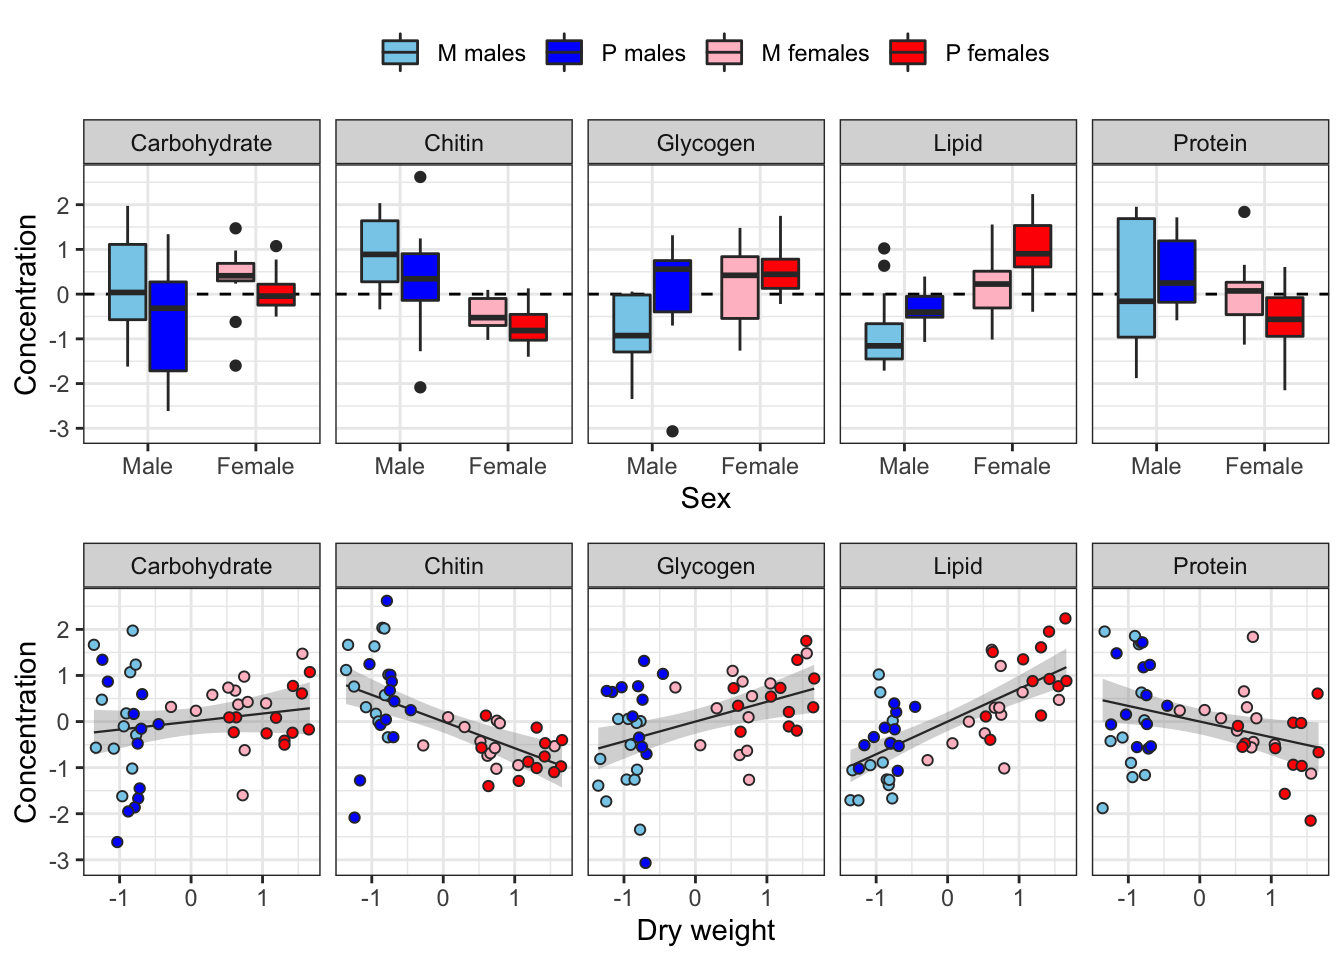
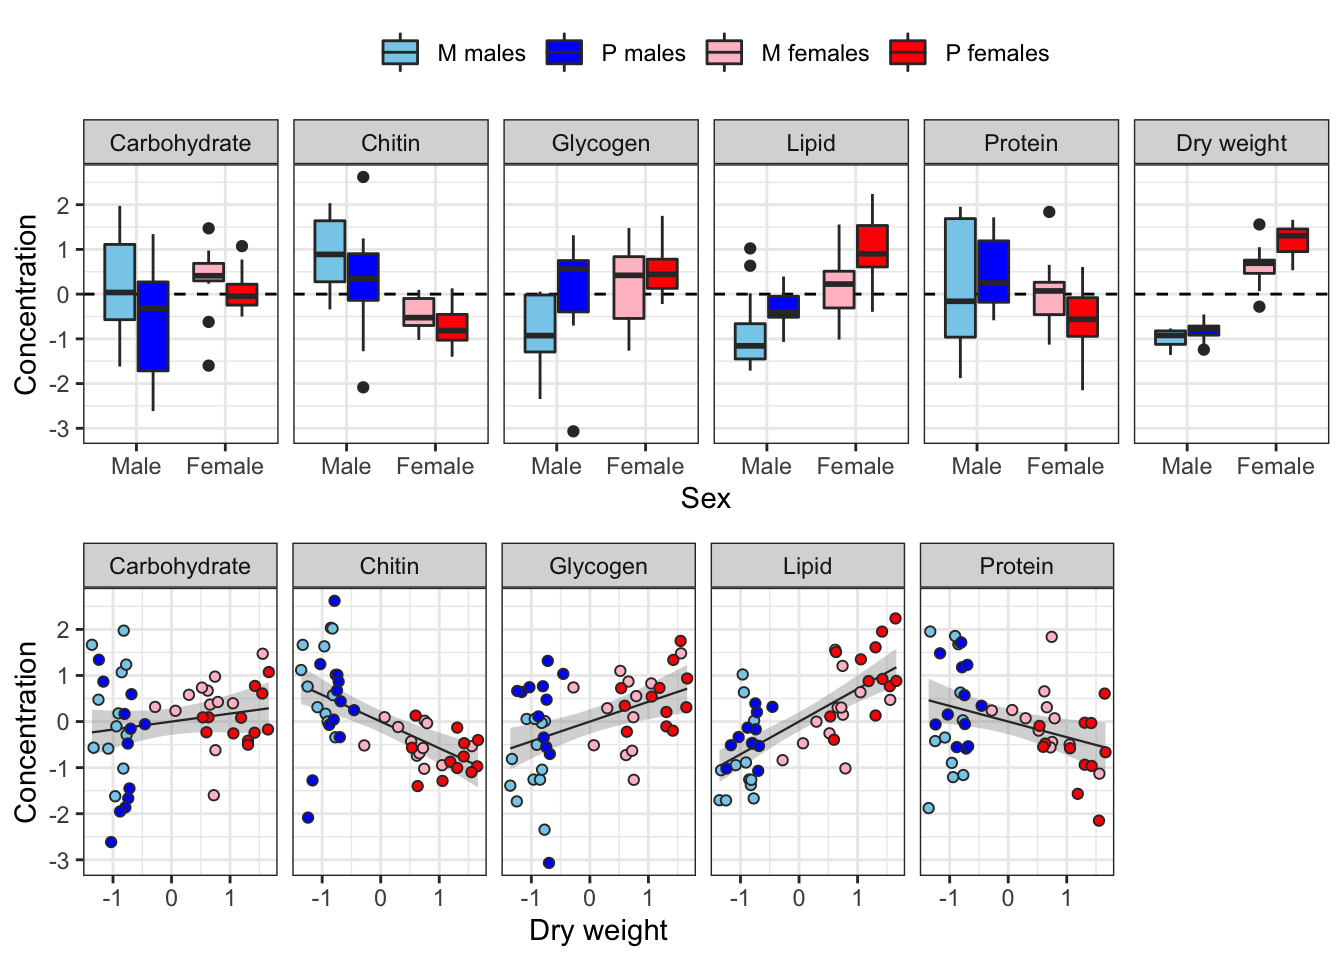
Build site.

diff --git a/docs/metabolites.html b/docs/metabolites.html
@@ -446,7 +446,7 @@ div.tocify {
 <div class="tab-content">
 <div id="summary" class="tab-pane fade in active">
 <p>
-<strong>Last updated:</strong> 2020-12-10
+<strong>Last updated:</strong> 2020-12-11
 </p>
 <p>
 <strong>Checks:</strong> <span class="glyphicon glyphicon-ok text-success" aria-hidden="true"></span> 7 <span class="glyphicon glyphicon-exclamation-sign text-danger" aria-hidden="true"></span> 0
@@ -537,16 +537,16 @@ This reproducible <a href="http://rmarkdown.rstudio.com">R Markdown</a> analysis
 <div class="panel panel-default">
 <div class="panel-heading">
 <p class="panel-title">
-<a data-toggle="collapse" data-parent="#workflowr-checks" href="#strongRepositoryversionstrongahrefhttpsgithubcomlukeholmanexpevolrespirationtree184b0a4ac7ac27696808674903e4f43936dd3334targetblank184b0a4a"> <span class="glyphicon glyphicon-ok text-success" aria-hidden="true"></span> <strong>Repository version:</strong> <a href="https://github.com/lukeholman/exp_evol_respiration/tree/184b0a4ac7ac27696808674903e4f43936dd3334" target="_blank">184b0a4</a> </a>
+<a data-toggle="collapse" data-parent="#workflowr-checks" href="#strongRepositoryversionstrongahrefhttpsgithubcomlukeholmanexpevolrespirationtree9d65fc733b79a98d2e12c6e21200fb959bd79377targetblank9d65fc7a"> <span class="glyphicon glyphicon-ok text-success" aria-hidden="true"></span> <strong>Repository version:</strong> <a href="https://github.com/lukeholman/exp_evol_respiration/tree/9d65fc733b79a98d2e12c6e21200fb959bd79377" target="_blank">9d65fc7</a> </a>
 </p>
 </div>
[2 lines of base64/hex data omitted]
 <div class="panel-body">
 <p>
 Great! You are using Git for version control. Tracking code development and connecting the code version to the results is critical for reproducibility.
 </p>
 <p>
-The results in this page were generated with repository version <a href="https://github.com/lukeholman/exp_evol_respiration/tree/184b0a4ac7ac27696808674903e4f43936dd3334" target="_blank">184b0a4</a>. See the <em>Past versions</em> tab to see a history of the changes made to the R Markdown and HTML files.
+The results in this page were generated with repository version <a href="https://github.com/lukeholman/exp_evol_respiration/tree/9d65fc733b79a98d2e12c6e21200fb959bd79377" target="_blank">9d65fc7</a>. See the <em>Past versions</em> tab to see a history of the changes made to the R Markdown and HTML files.
 </p>
 <p>
 Note that you need to be careful to ensure that all relevant files for the analysis have been committed to Git prior to generating the results (you can use <code>wflow_publish</code> or <code>wflow_git_commit</code>). workflowr only checks the R Markdown file, but you know if there are other scripts or data files that it depends on. Below is the status of the Git repository when the results were generated:
@@ -597,6 +597,40 @@ Message
 </tr>
 </thead>
 <tbody>
+<tr>
+<td>
+Rmd
+</td>
+<td>
+<a href="https://github.com/lukeholman/exp_evol_respiration/blob/9d65fc733b79a98d2e12c6e21200fb959bd79377/analysis/metabolites.Rmd" target="_blank">9d65fc7</a>
+</td>
+<td>
+lukeholman
+</td>
+<td>
+2020-12-11
+</td>
+<td>
+Tweaks
+</td>
+</tr>
+<tr>
+<td>
+html
+</td>
+<td>
+<a href="https://rawcdn.githack.com/lukeholman/exp_evol_respiration/2911fb9e423d20144248d02fab3414bc7ff29d46/docs/metabolites.html" target="_blank">2911fb9</a>
+</td>
+<td>
+lukeholman
+</td>
+<td>
+2020-12-10
+</td>
+<td>
+Build site.
+</td>
+</tr>
 <tr>
 <td>
 Rmd
@@ -1087,7 +1121,7 @@ scaled_metabolites %&gt;%
 <div id="simple-plots" class="section level3">
 <h3>Simple plots</h3>
 <p>The following plot shows how each metabolite varies between sexes and treatments, and how the consecration of each metabolite co-varies with dry weight across individuals.</p>
-<pre class="r"><code>levels &lt;- c(&quot;Carbohydrate&quot;, &quot;Chitin&quot;, &quot;Glycogen&quot;, &quot;Lipid&quot;, &quot;Protein&quot;, &quot;Dryweight&quot;)
+<pre class="r"><code>levels &lt;- c(&quot;Carbohydrate&quot;, &quot;Chitin&quot;, &quot;Glycogen&quot;, &quot;Lipid&quot;, &quot;Protein&quot;, &quot;Dry weight&quot;)
 
 cols &lt;- c(&quot;M females&quot; = &quot;pink&quot;, 
           &quot;P females&quot; = &quot;red&quot;, 
@@ -1097,8 +1131,9 @@ cols &lt;- c(&quot;M females&quot; = &quot;pink&quot;,
 grid.arrange(
   scaled_metabolites %&gt;% 
     rename_all(~ str_remove_all(.x, &quot;_conc&quot;)) %&gt;%
+    rename(`Dry weight` = Dry_weight) %&gt;%
     mutate(sex = factor(sex, c(&quot;Male&quot;, &quot;Female&quot;))) %&gt;%
-    reshape2::melt(id.vars = c(&#39;sex&#39;, &#39;treatment&#39;, &#39;sextreat&#39;, &#39;line&#39;, &#39;Dry_weight&#39;)) %&gt;% 
+    reshape2::melt(id.vars = c(&#39;sex&#39;, &#39;treatment&#39;, &#39;sextreat&#39;, &#39;line&#39;)) %&gt;% 
     mutate(variable = factor(variable, levels)) %&gt;%
     ggplot(aes(x = sex, y = value,  fill  = sextreat)) +
     geom_hline(yintercept = 0, linetype = 2) + 
@@ -1109,19 +1144,26 @@ grid.arrange(
     theme(legend.position = &#39;top&#39;) + 
     scale_fill_manual(values = cols, name = &quot;&quot;),
   
-  scaled_metabolites %&gt;% 
-    rename_all(~ str_remove_all(.x, &quot;_conc&quot;)) %&gt;%
-    reshape2::melt(id.vars = c(&#39;sex&#39;, &#39;treatment&#39;, &#39;sextreat&#39;, &#39;line&#39;, &#39;Dry_weight&#39;)) %&gt;% 
-    mutate(variable = factor(variable, levels)) %&gt;%
-    ggplot(aes(x = Dry_weight, y = value, colour = sextreat, fill = sextreat)) +
-    geom_smooth(method = &#39;lm&#39;, se = TRUE, aes(colour = NULL, fill = NULL), colour = &quot;grey20&quot;, size = .4) +
-    geom_point(pch = 21, colour = &quot;grey20&quot;) +
-    facet_grid( ~ variable) +
-    theme_bw() +
-    xlab(&quot;Dry weight&quot;) + ylab(&quot;Concentration&quot;) +
-    theme(legend.position = &#39;none&#39;) + 
-    scale_colour_manual(values = cols, name = &quot;&quot;) + 
-    scale_fill_manual(values = cols, name = &quot;&quot;),
+  arrangeGrob(
+    scaled_metabolites %&gt;% 
+      rename_all(~ str_remove_all(.x, &quot;_conc&quot;)) %&gt;%
+      reshape2::melt(id.vars = c(&#39;sex&#39;, &#39;treatment&#39;, &#39;sextreat&#39;, &#39;line&#39;, &#39;Dry_weight&#39;)) %&gt;% 
+      mutate(variable = factor(variable, levels)) %&gt;%
+      ggplot(aes(x = Dry_weight, y = value, colour = sextreat, fill = sextreat)) +
+      geom_smooth(method = &#39;lm&#39;, se = TRUE, aes(colour = NULL, fill = NULL), colour = &quot;grey20&quot;, size = .4) +
+      geom_point(pch = 21, colour = &quot;grey20&quot;) +
+      facet_grid( ~ variable) +
+      theme_bw() +
+      xlab(&quot;Dry weight&quot;) + ylab(&quot;Concentration&quot;) +
+      theme(legend.position = &#39;none&#39;) + 
+      scale_colour_manual(values = cols, name = &quot;&quot;) + 
+      scale_fill_manual(values = cols, name = &quot;&quot;),
+    scaled_metabolites %&gt;% 
+      rename_all(~ str_remove_all(.x, &quot;_conc&quot;)) %&gt;%
+      reshape2::melt(id.vars = c(&#39;sex&#39;, &#39;treatment&#39;, &#39;sextreat&#39;, &#39;line&#39;, &#39;Dry_weight&#39;)) %&gt;% 
+      mutate(variable = factor(variable, levels)) %&gt;%
+      ggplot(aes(x = Dry_weight, y = value, colour = sextreat, fill = sextreat)) +
+      theme_void() + ylab(NULL), nrow = 1, widths = c(0.84, 0.16)),
   heights = c(0.55, 0.45)
 )</code></pre>
 <p><img src="figure/metabolites.Rmd/unnamed-chunk-5-1.png" width="672" style="display: block; margin: auto;" /></p>
@@ -1399,7 +1441,7 @@ node [shape = rectangle, style = filled, fillcolor = Linen]
 <p>Here we fit a model of the five metabolites, which includes dry body weight as a mediator variable. That is, our model estimates the effect of treatment, sex and line (and all the 2- and 3-way interactions) on dry weight, and then estimates the effect of those some predictors (plus dry weight) on the five metabolites. The model assumes that although the different sexes, treatment groups, and lines may differ in their dry weight, the relationship between dry weight and the metabolites does not vary by sex/treatment/line. This assumption was made to constrain the number of parameters in the model, and to reflect out prior beliefs about allometric scaling of metabolites.</p>
 <div id="define-priors" class="section level3">
 <h3>Define Priors</h3>
-<p>We use set <code>Normal</code> priors on all fixed effect parameters, mean = 0, sd = 1, which ‘regularises’ the estimates towards zero – this is conservative (because it makes large posterior effect sizes more improbable), and it also helps the model to converge. Similarly, we set a somewhat conservative half-cauchy prior (mean 0, scale 0.01) on the random effects for <code>line</code> (i.e. we consider large differences between lines – in terms of means and treatment effects – to be possible but improbable). We leave all other priors at the defaults used by <code>brms</code>.</p>
+<p>We use set fairly tight Normal priors on all fixed effect parameters, which ‘regularises’ the estimates towards zero – this is conservative (because it ensures that a stronger signal in the data is needed to produce a given posterior effect size estimate), and it also helps the model to converge. Similarly, we set a somewhat conservative half-cauchy prior (mean 0, scale 0.01) on the random effects for <code>line</code> (i.e. we consider large differences between lines – in terms of means and treatment effects – to be possible but improbable). We leave all other priors at the defaults used by <code>brms</code>. Note that the Normal priors are slightly wider in the model of dry weight, because we expect larger effect sizes of sex and treatment on dry weight than on the metabolite composition.</p>
 <pre class="r"><code>prior1 &lt;- c(set_prior(&quot;normal(0, 0.5)&quot;, class = &quot;b&quot;, resp = &#39;Lipid&#39;),
             set_prior(&quot;normal(0, 0.5)&quot;, class = &quot;b&quot;, resp = &#39;Carbohydrate&#39;),
             set_prior(&quot;normal(0, 0.5)&quot;, class = &quot;b&quot;, resp = &#39;Protein&#39;),
